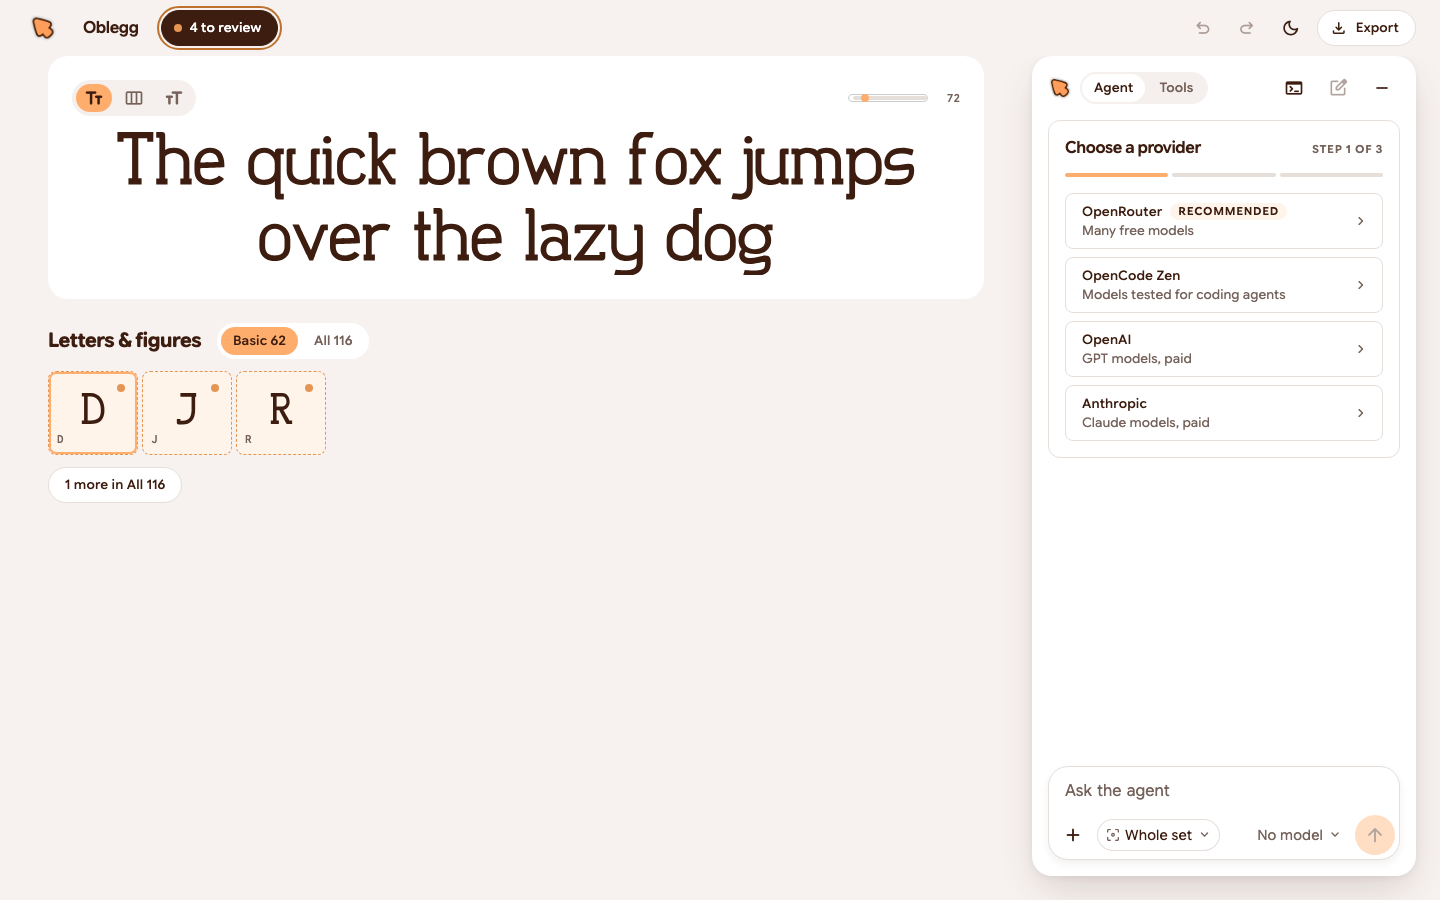
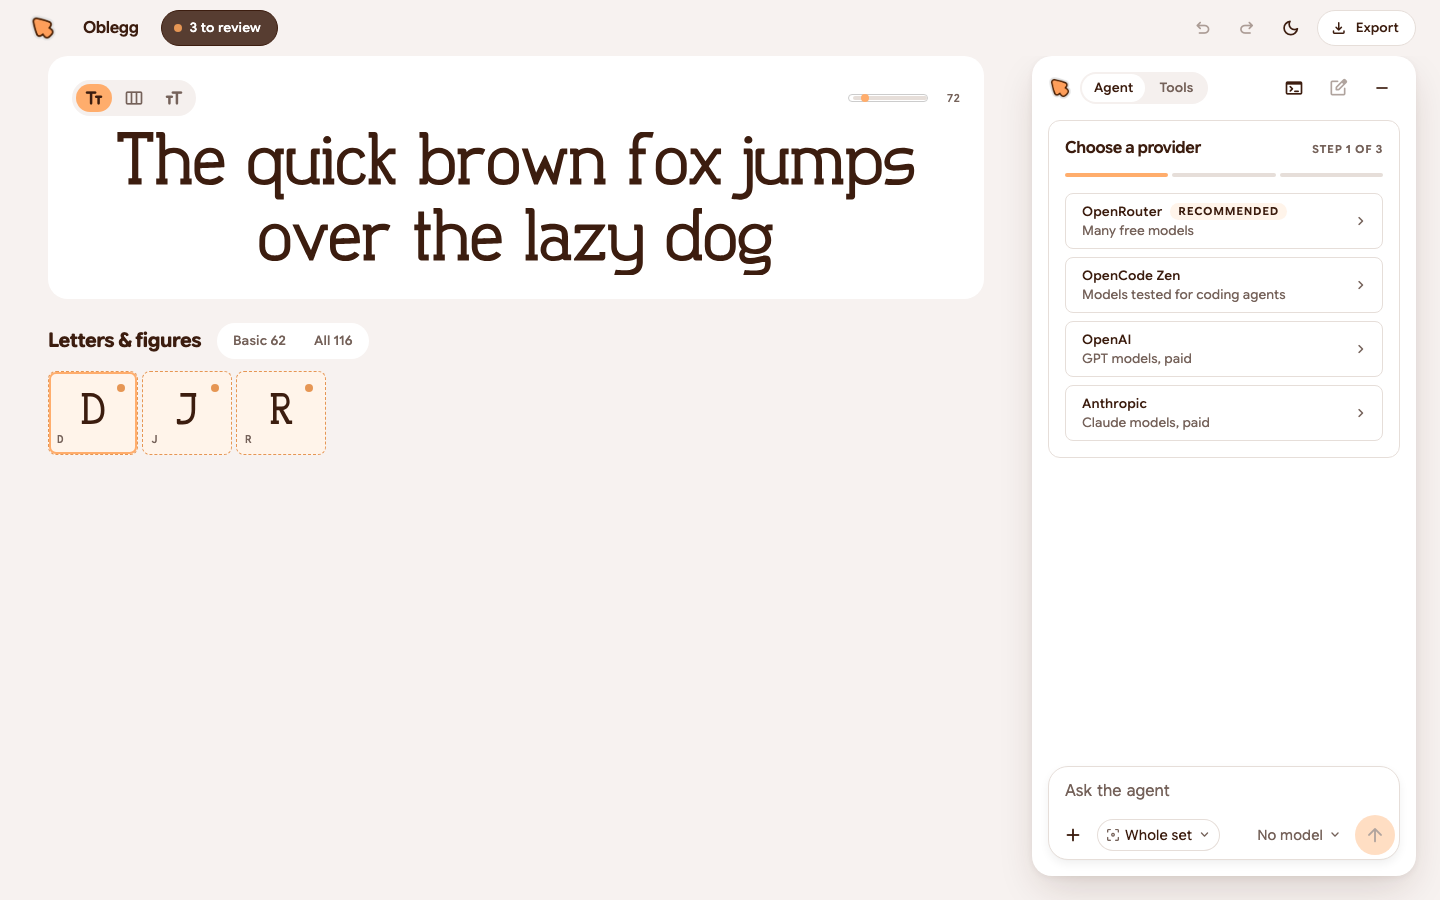
docs(agentic): #135 fix-round screenshots; log the focus-mode Keep undo bug (68)

Changed region(s): [[0.0938, 0.0, 0.1875, 0.0622], [0.1562, 0.3422, 0.2188, 0.4044], [0.0625, 0.5289, 0.125, 0.56]]

diff --git a/docs/agentic/SMOKE-TEST-BUGS.md b/docs/agentic/SMOKE-TEST-BUGS.md
@@ -275,3 +275,12 @@ Draft. Found on the way:
 64. **Focus mode at phone width (390) overlaps itself**: the inspector card covers the close /
     previous / next row and the top of the canvas. Layout, not states; seen in the #128 browser
     check. Deferred.
+
+## Found in the #135 QA (glyph grid review filter, 2026-11-25)
+
+68. **Undo after a focus-mode Keep goes to the wrong glyph and skips your edit.** Repro (Oblegg):
+    make J an agent Draft, open J in focus mode, press Keep, close. Open H, drag its outline, then
+    press Cmd+Z. Focus mode jumps to J and H's drag is **not** undone (J stays kept). Without the
+    Keep step the same undo works. Also on base `fix/interaction-states`, so not caused by #135.
+    Protected area (undo / history): not fixed in PR #139; needs its own issue and an approved fix.
+    (Numbered 68 because `feat/tools-tab-sliders` already uses 66 and 67.)
